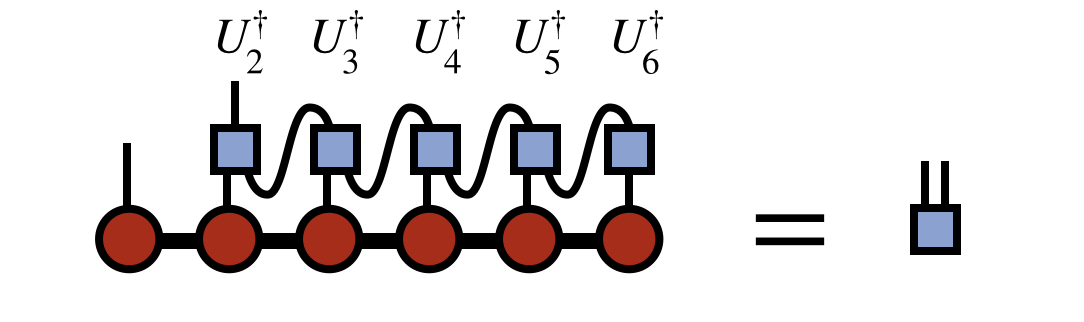
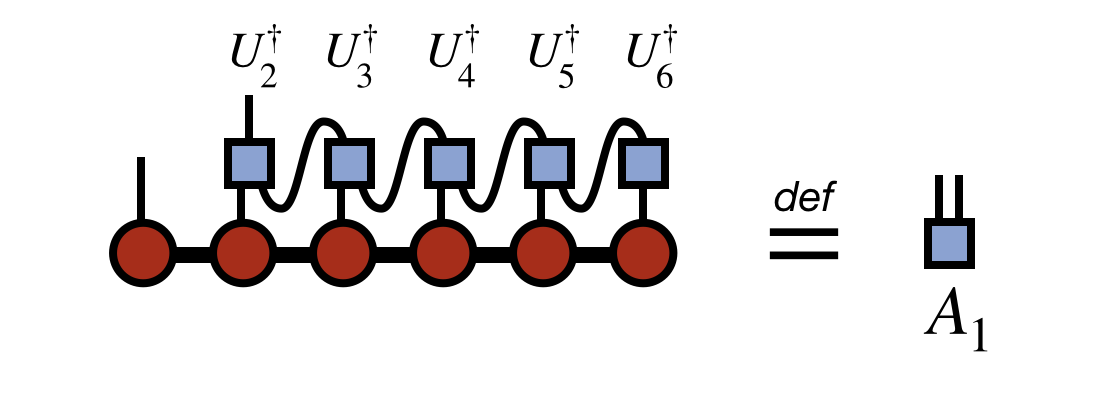
Finished MPS/TT compression section, though more could be said

diff --git a/src/mps/index.md b/src/mps/index.md
@@ -268,4 +268,9 @@ Once all of the $U$ tensors are obtained by repeating the steps above, the last 
 As the curtain falls on this little algorithmic drama, our characters can now join hands and
 take a bow. The final compressed version of the original MPS/TT is:
 
+![medium](compressed_mpstt.png)
+
+Note that in this last expression, the indices of various tensors have been oriented differently 
+on the page than in their original definitions above. But recall that it is the connectivity 
+of indices, not their orientation, that carries the meaning of tensor diagrams.
 
